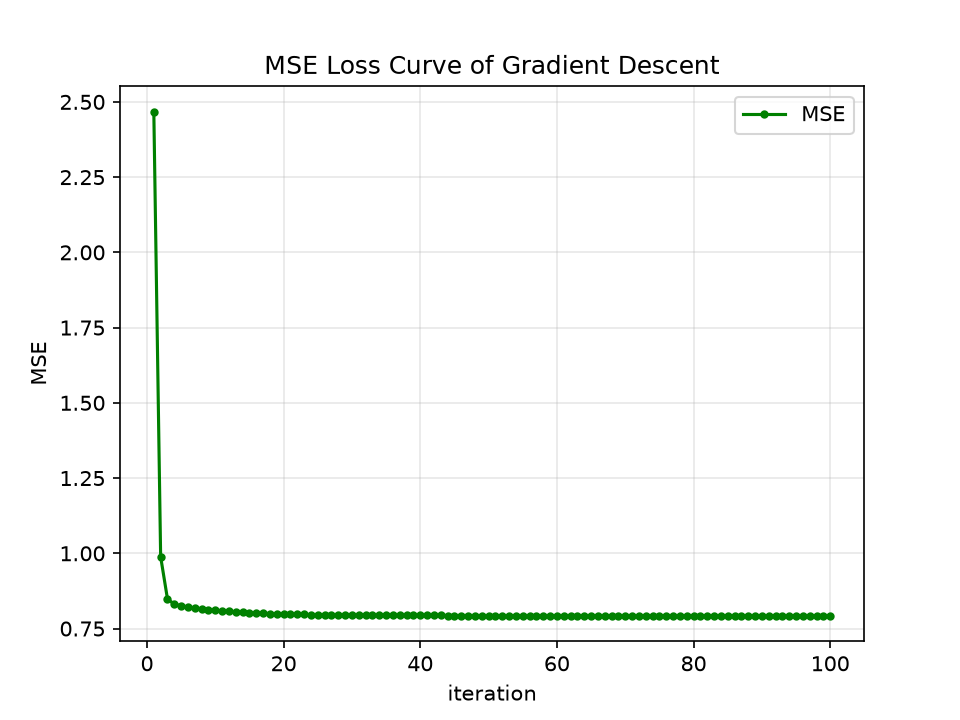
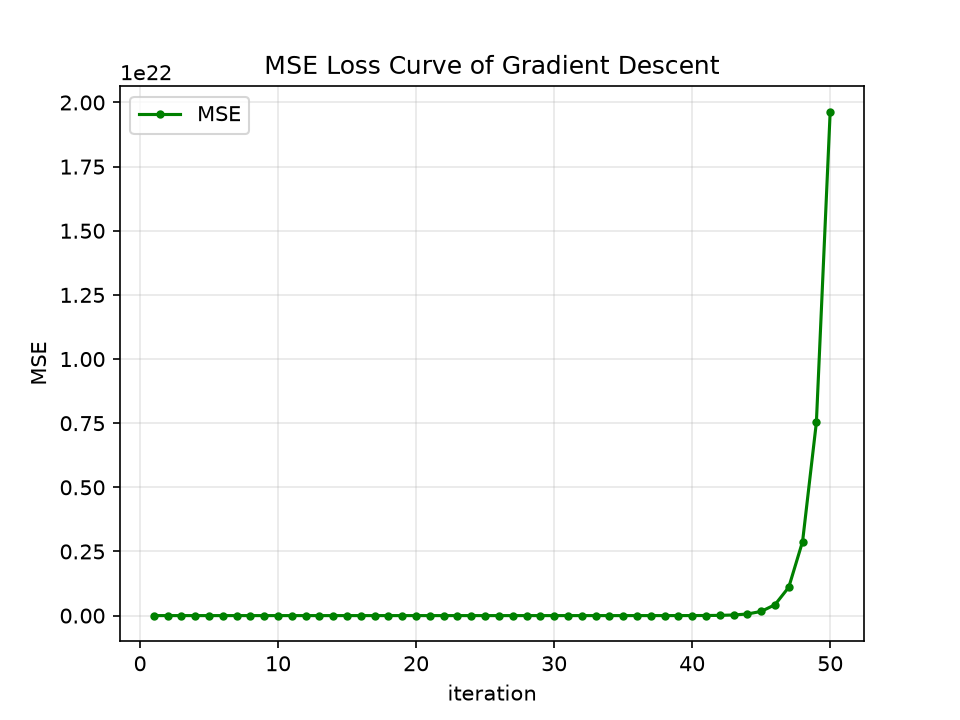
vault backup: 2026-10-12 19:49:09

diff --git a/code/机器学习/exp1_linear_regression.py b/code/机器学习/exp1_linear_regression.py
@@ -14,8 +14,8 @@ plt.show()
 
 #这里采用梯度下降方法学习参数
 X_b = np.c_[np.ones((100,1)),X] #把参数b吸纳到向量X中，得到向量X_b=[1,X]
-eta=1 #初始化学习率
-n_iterations=100 #迭代次数
+eta=2 #初始化学习率
+n_iterations=50 #迭代次数
 m=100 #样本个数
 theta=np.random.randn(2,1) #随机初始化参数b,w
 losses=[] #记录每一轮优化后的损失，用于绘制损失下降曲线
